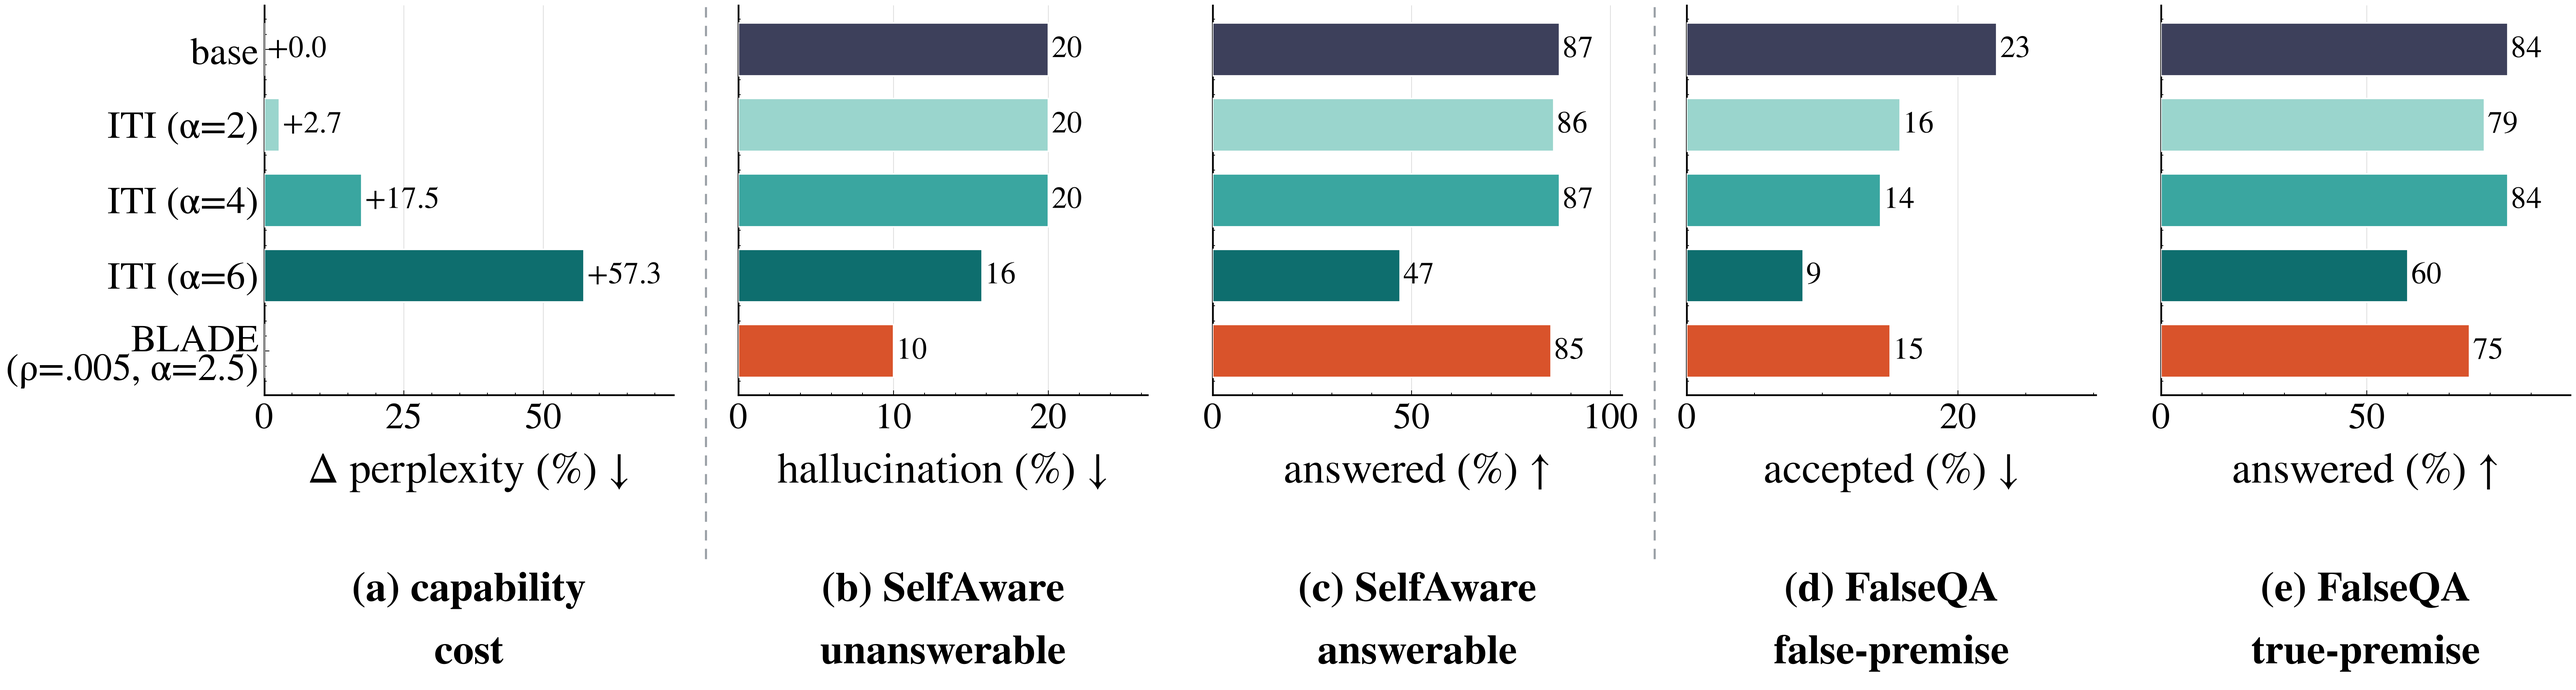
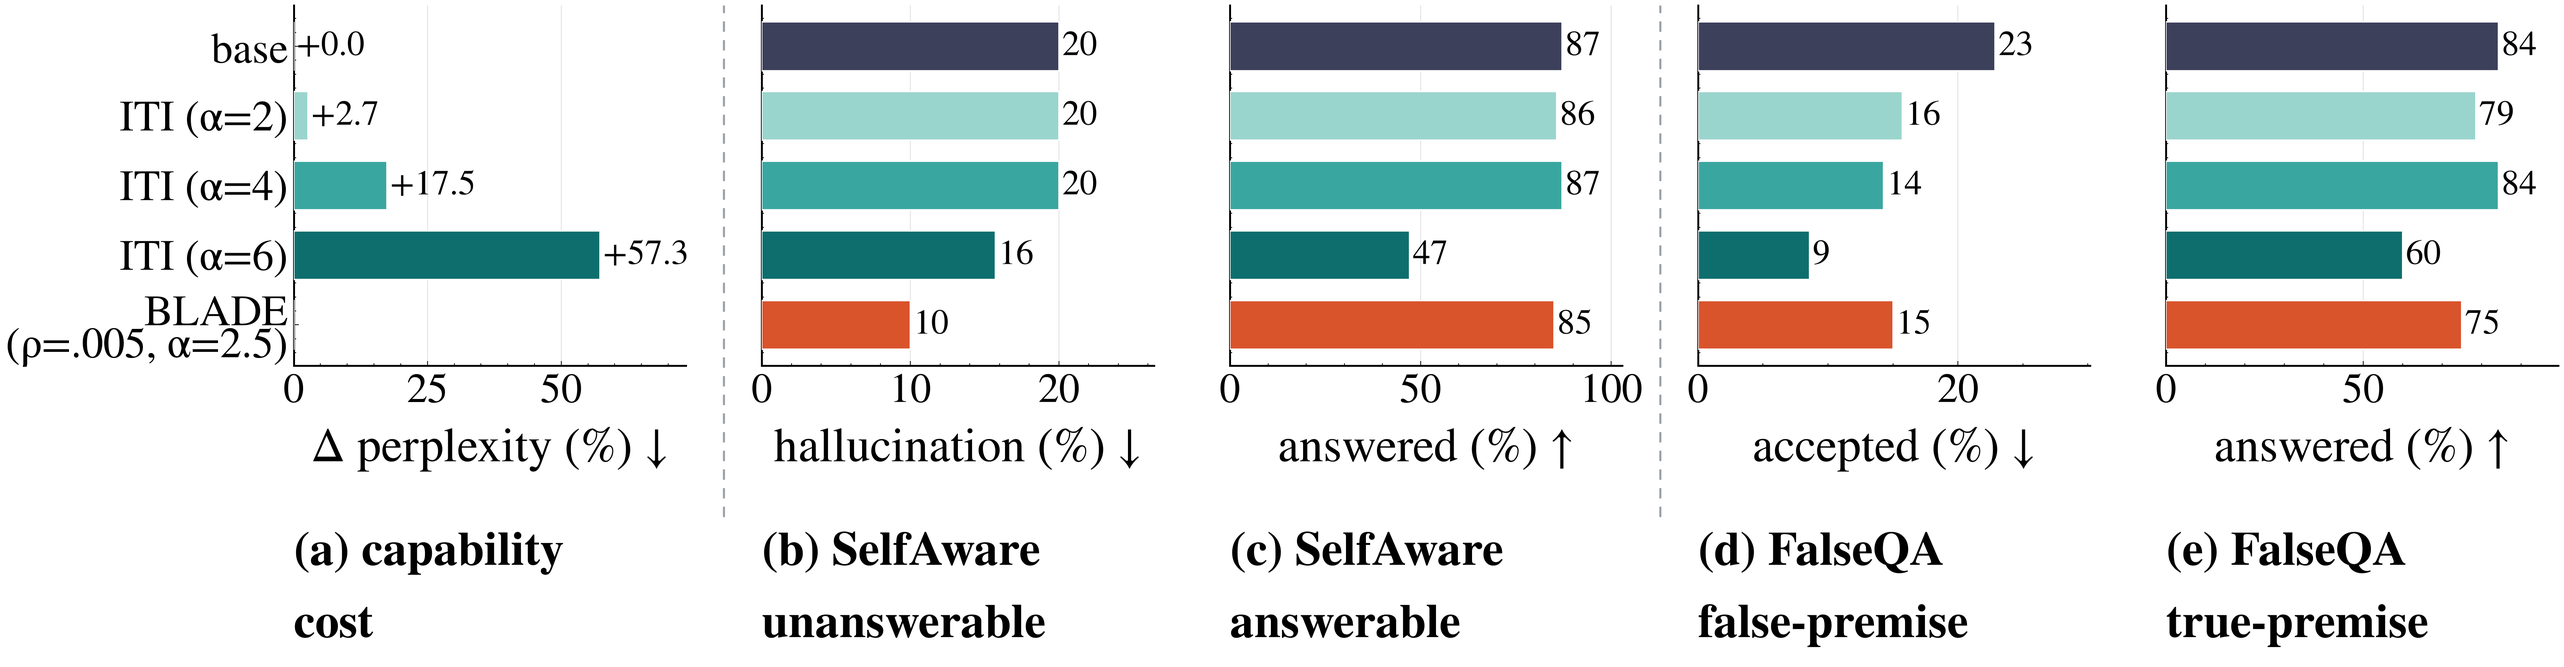
uncertainty_method_cmp: larger fonts again; left-align panel subtitles

diff --git a/scripts/plot_method_comparison.py b/scripts/plot_method_comparison.py
@@ -15,9 +15,9 @@ R = Path("results"); FIG = Path("figures"); FIG.mkdir(exist_ok=True)
 SCS = Path("/tmp/claude-1000/-home-xfang1999-Projects-TestTimeSafetyPrune/"
            "e16f646c-64a5-440b-bd68-985c068d25df/scratchpad")
 plt.style.use(["science", "no-latex"])
-plt.rcParams.update({"font.size": 22, "axes.labelsize": 27, "axes.titlesize": 24,
-                     "xtick.labelsize": 23, "ytick.labelsize": 24, "xtick.top": False,
-                     "ytick.right": False, "axes.linewidth": 1.1})
+plt.rcParams.update({"font.size": 25, "axes.labelsize": 30, "axes.titlesize": 27,
+                     "xtick.labelsize": 26, "ytick.labelsize": 27, "xtick.top": False,
+                     "ytick.right": False, "axes.linewidth": 1.2})
 
 cell = defaultdict(list)
 for src, jdir in [("method_cmp_qwen3-8b", "opus_judge"), ("method_cmp_fq_qwen3-8b", "opus_judge_fq"),
@@ -66,17 +66,17 @@ for k, (ax, (ds, gold, title, xlab, low)) in enumerate(zip(axes.flat, PAN)):
     if ds == "ppl":
         vals = [PPL[c[1]] for c in METHODS]
         b = ax.barh(y, vals, H, color=cols, edgecolor="white", linewidth=0.9, zorder=3)
-        ax.bar_label(b, fmt="%+.1f", fontsize=19, padding=2)
+        ax.bar_label(b, fmt="%+.1f", fontsize=22, padding=2)
         ax.set_xlim(0, max(vals) * 1.28)
     else:
         vals = [rate(ds, gold, c[1]) for c in METHODS]
         b = ax.barh(y, vals, H, color=cols, edgecolor="white", linewidth=0.9, zorder=3)
-        ax.bar_label(b, fmt="%.0f", fontsize=19, padding=2)
+        ax.bar_label(b, fmt="%.0f", fontsize=22, padding=2)
         ax.set_xlim(0, max([v for v in vals if v == v]) * (1.32 if low else 1.18))
     ax.set_yticks(y); ax.set_yticklabels(labs, linespacing=0.85); ax.invert_yaxis()
     ax.set_xlabel(xlab, labelpad=8)                                   # metric = x-axis title
-    ax.text(0.5, -0.42, f"({chr(97+k)}) {title}", transform=ax.transAxes,   # panel subtitle below
-            ha="center", va="top", fontsize=26, fontweight="bold")
+    ax.text(0.0, -0.42, f"({chr(97+k)}) {title}", transform=ax.transAxes,   # panel subtitle below, left-aligned
+            ha="left", va="top", ma="left", fontsize=30, fontweight="bold")
     ax.xaxis.grid(True, ls="-", lw=0.5, color="#DFDFDF", zorder=0); ax.set_axisbelow(True)
     ax.spines[["top", "right"]].set_visible(False)
 fig.tight_layout()
